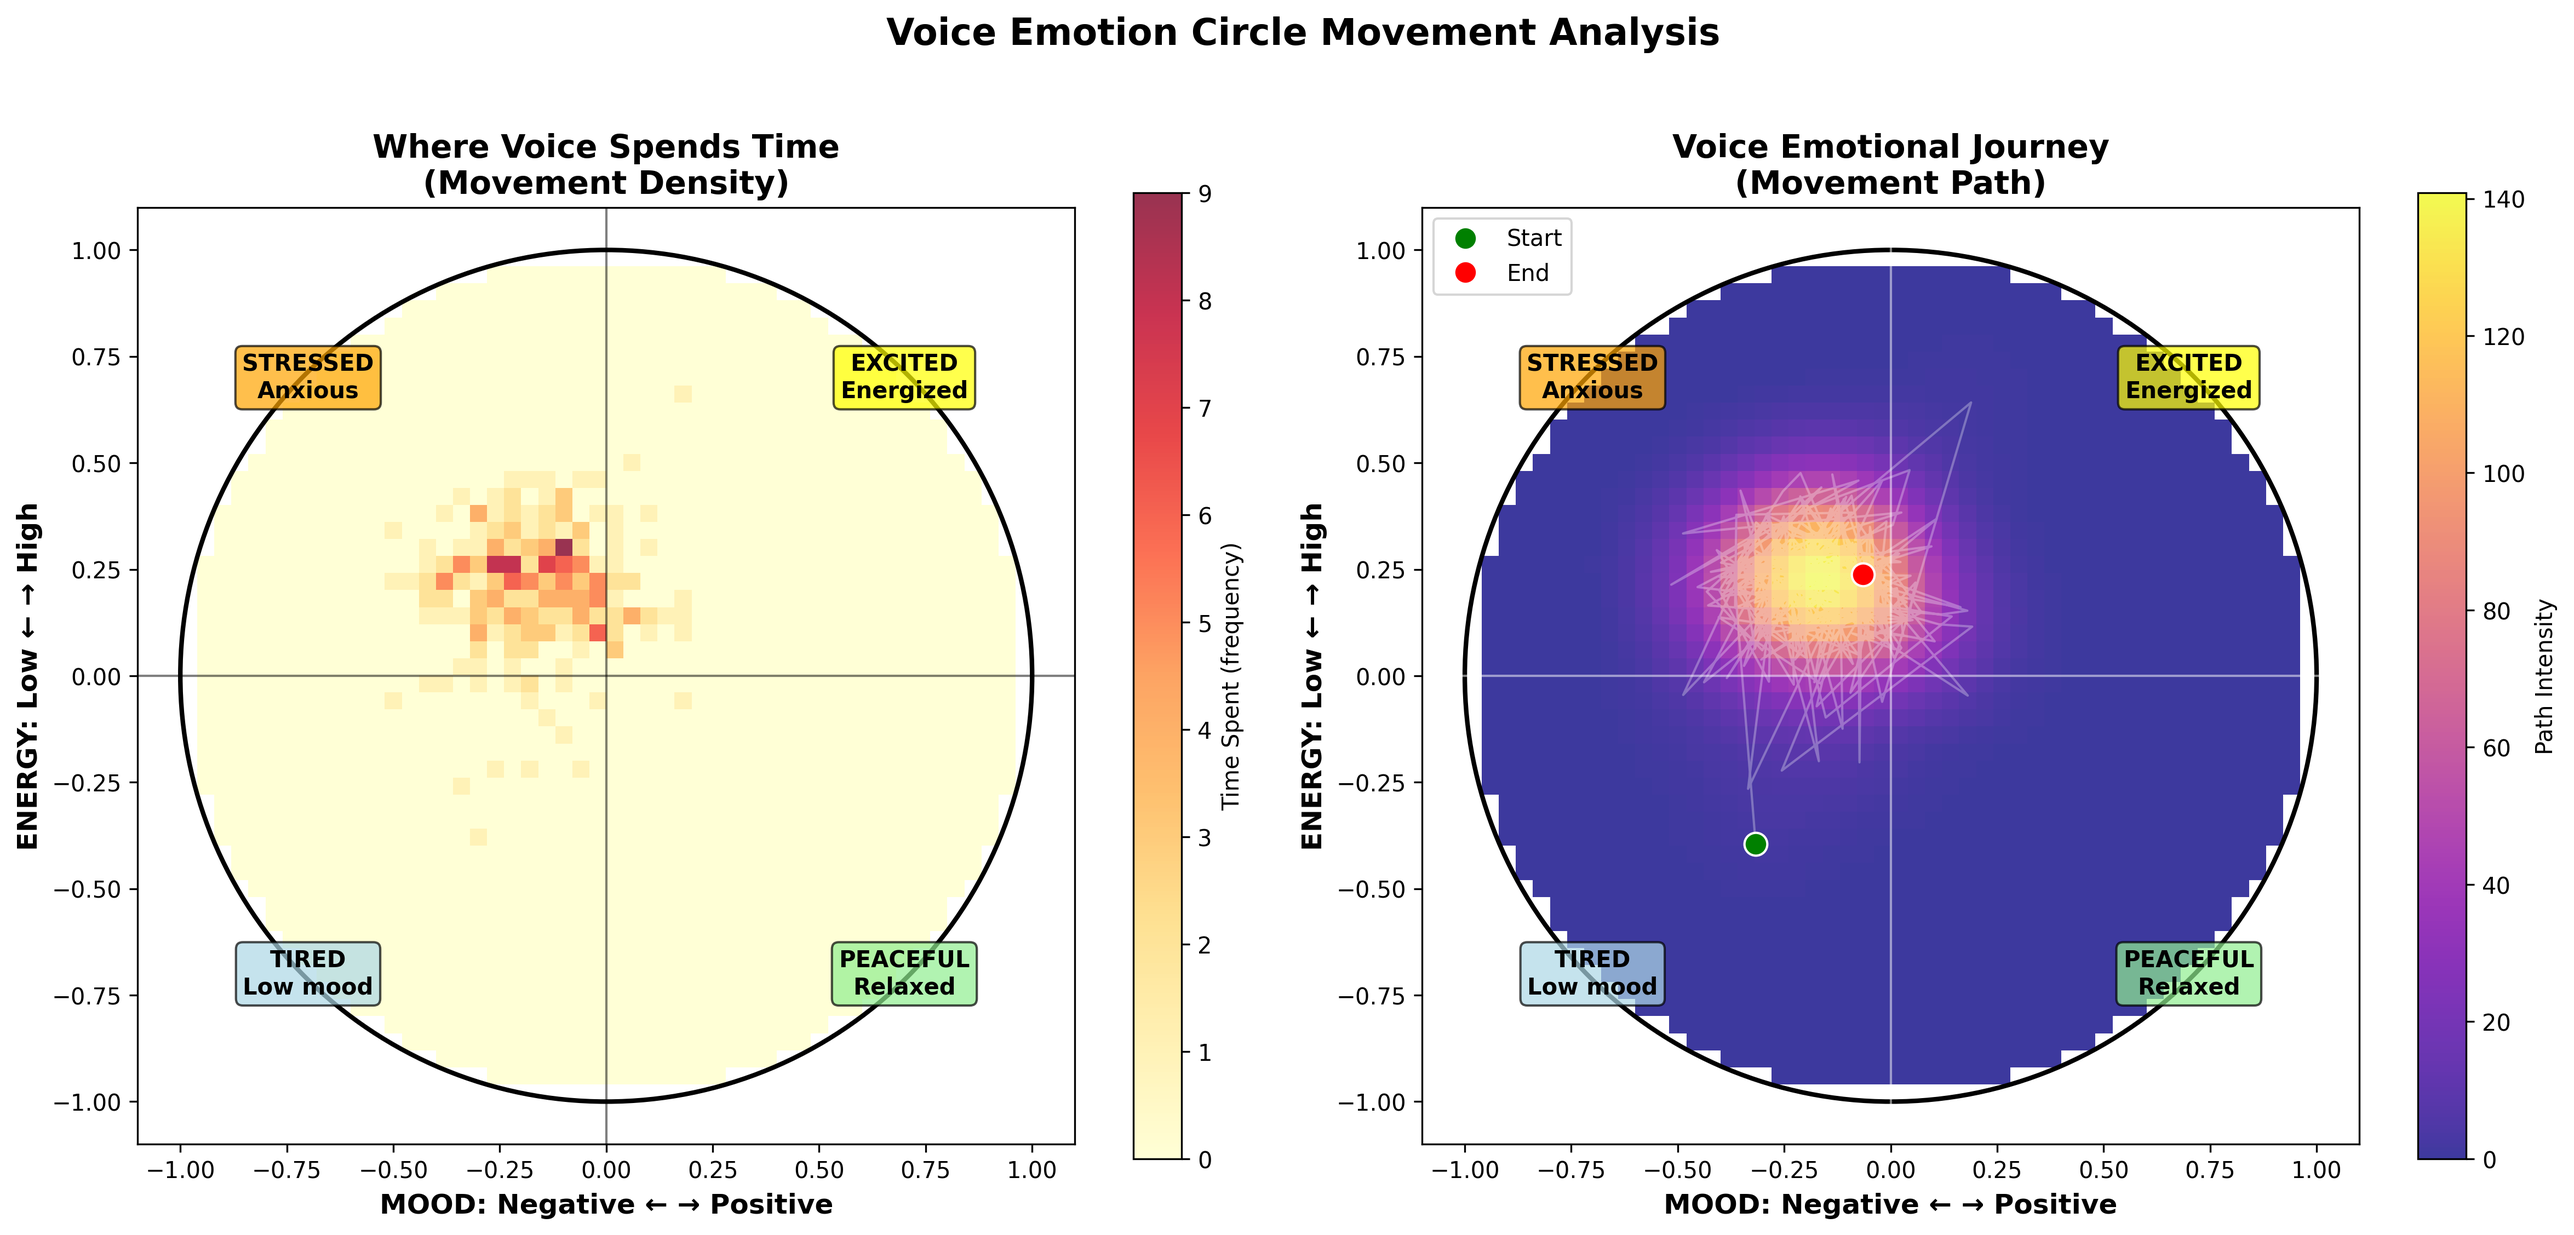
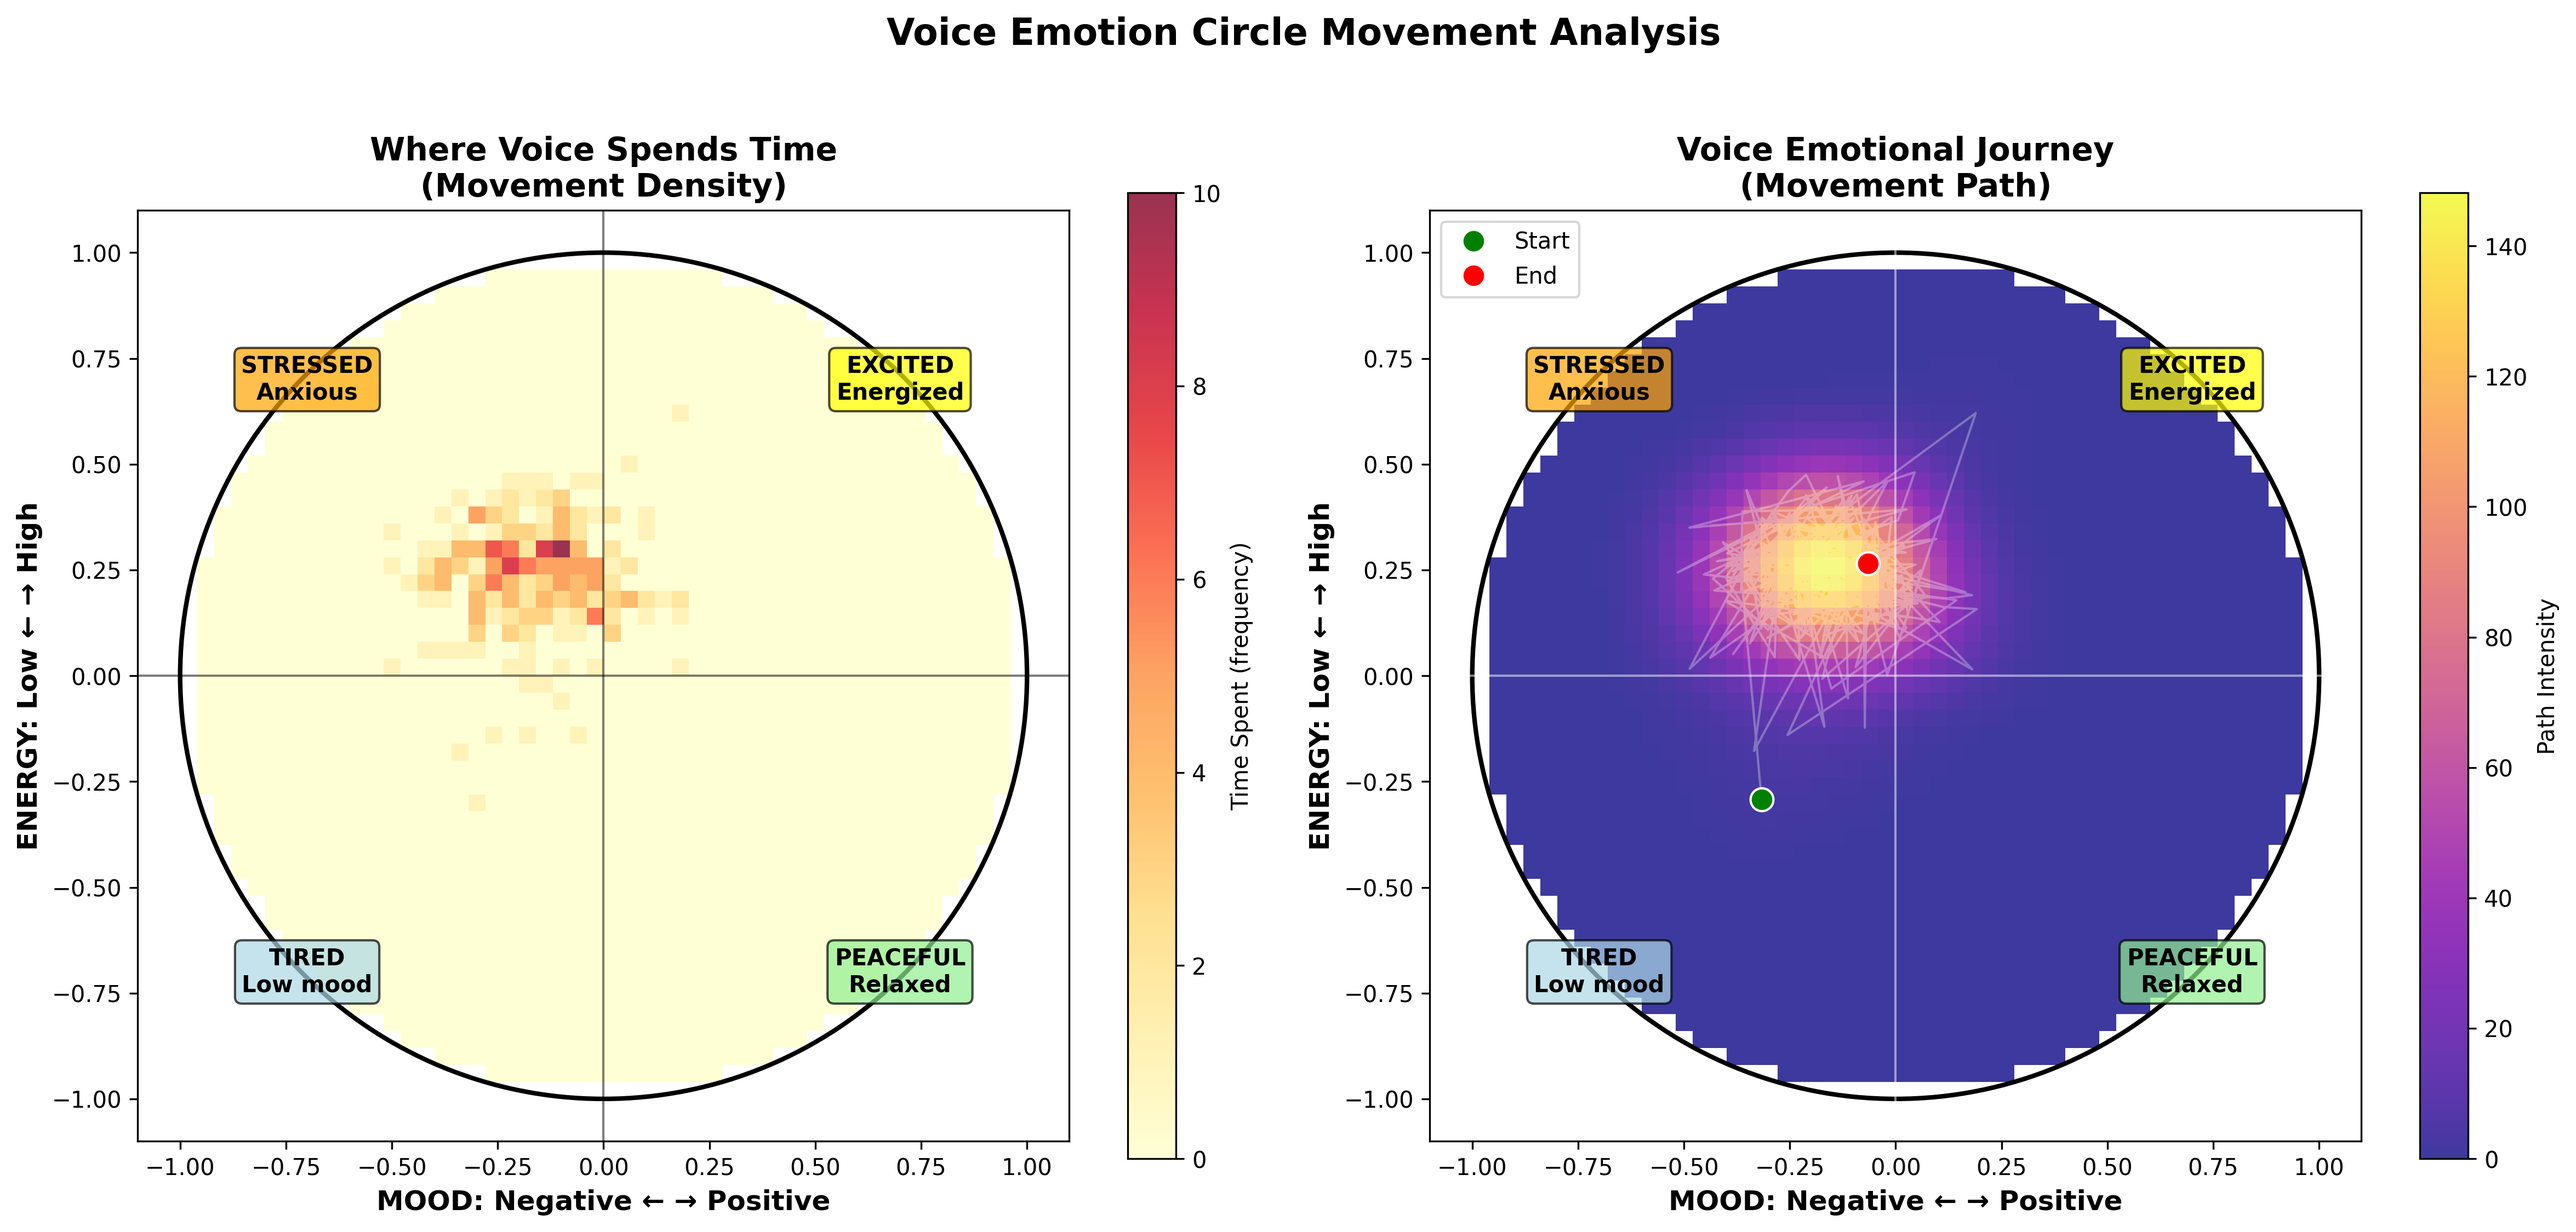
now for cleanup

diff --git a/voice_emotion_bot.py b/voice_emotion_bot.py
@@ -178,9 +178,9 @@ class VoiceEmotionBot:
         speech_rate_norm = min(1.0, features['speech_rate'] / 5.0)  # Normalize speech rate
         
         # AROUSAL: High pitch variation + high speech rate + high volume = high arousal
-        # Amplified for better sensitivity to high-energy emotions like anger
+        # Balanced calibration - not too sensitive, not too weak
         arousal = (0.4 * pitch_var_norm + 0.3 * speech_rate_norm + 0.3 * volume_norm)
-        emotions['voice_arousal'] = np.clip((arousal * 2.5) - 1.2, -1, 1)  # Stronger scaling for high arousal
+        emotions['voice_arousal'] = np.clip((arousal * 2.2) - 1.0, -1, 1)  # Moderate scaling (reduced from 2.5)
         
         # VALENCE: Higher spectral centroid + moderate pitch = positive valence
         # For angry voices: harsh spectral characteristics = negative valence
@@ -189,7 +189,7 @@ class VoiceEmotionBot:
         
         # Negative valence boosted by harsh spectral features and low harmonic ratio
         valence_raw = (0.4 * spectral_norm + 0.2 * (1 - features['silence_ratio']) + 
-                      0.2 * features['harmonic_ratio'] - 0.2 * pitch_harshness)
+                      0.2 * features['harmonic_ratio'] - 0.15 * pitch_harshness)  # Reduced harshness penalty
         emotions['voice_valence'] = np.clip((valence_raw * 2) - 1, -1, 1)
         
         # INTENSITY: Overall voice energy and variation
@@ -197,9 +197,9 @@ class VoiceEmotionBot:
         emotions['voice_intensity'] = intensity
         
         # STRESS: High pitch + high variation + low harmonic ratio = stress
-        # Boosted sensitivity for angry/stressed voices
+        # Moderate sensitivity (reduced from 1.3x)
         stress = (0.3 * pitch_norm + 0.4 * pitch_var_norm + 0.3 * (1 - features['harmonic_ratio']))
-        emotions['voice_stress'] = min(1.0, stress * 1.3)  # Amplify stress detection
+        emotions['voice_stress'] = min(1.0, stress * 1.15)  # Reduced amplification
         
         # BASIC EMOTIONS (rule-based classification)
         # Happy: High valence + moderate arousal + high harmonic ratio
@@ -207,27 +207,27 @@ class VoiceEmotionBot:
                                      (arousal + 0.5) * features['harmonic_ratio'])
         
         # Angry: High arousal + negative valence + high volume + high pitch variation
-        # Strengthened formula for better anger detection
-        angry_score = (arousal ** 1.5) * max(0, -emotions['voice_valence'] + 0.2) * volume_norm * (pitch_var_norm ** 0.8)
-        emotions['voice_angry'] = min(1.0, angry_score * 1.5)  # Amplified anger detection
+        # Balanced formula - strong enough for angry but not too aggressive
+        angry_score = (arousal ** 1.3) * max(0, -emotions['voice_valence'] + 0.1) * volume_norm * (pitch_var_norm ** 0.85)
+        emotions['voice_angry'] = min(1.0, angry_score * 1.25)  # Reduced from 1.5x to 1.25x
         
         # Sad: Low arousal + negative valence + low volume + high silence ratio
         emotions['voice_sad'] = max(0, (1 - arousal) * max(0, -emotions['voice_valence']) * 
                                    (1 - volume_norm) * features['silence_ratio'])
         
         # Fear: High arousal + negative valence + high voice tremor + high stress
-        # Strengthened for better fear detection
-        fear_score = (arousal ** 1.2) * max(0, -emotions['voice_valence'] + 0.1) * min(1.0, features['voice_tremor'] / 40.0) * stress
-        emotions['voice_fear'] = min(1.0, fear_score * 1.3)
+        # Balanced sensitivity (reduced from 1.3x to 1.15x)
+        fear_score = (arousal ** 1.1) * max(0, -emotions['voice_valence'] + 0.05) * min(1.0, features['voice_tremor'] / 40.0) * stress
+        emotions['voice_fear'] = min(1.0, fear_score * 1.15)
         
         # Surprise: Very high arousal + neutral valence + high pitch variation
         emotions['voice_surprise'] = max(0, min(1.0, arousal * 1.5) * 
                                         (1 - abs(emotions['voice_valence'])) * pitch_var_norm)
         
         # Disgust: Moderate arousal + negative valence + low harmonic ratio
-        # Strengthened to push more into stressed quadrant
-        disgust_score = (arousal * 0.8) * max(0, -emotions['voice_valence'] + 0.15) * (1 - features['harmonic_ratio'])
-        emotions['voice_disgust'] = min(1.0, disgust_score * 1.2)
+        # Balanced sensitivity (reduced from 1.2x to 1.1x)
+        disgust_score = (arousal * 0.75) * max(0, -emotions['voice_valence'] + 0.08) * (1 - features['harmonic_ratio'])
+        emotions['voice_disgust'] = min(1.0, disgust_score * 1.1)
         
         # Neutral: Low arousal + neutral valence + stable features
         emotions['voice_neutral'] = max(0, (1 - arousal) * (1 - abs(emotions['voice_valence'])) * 
